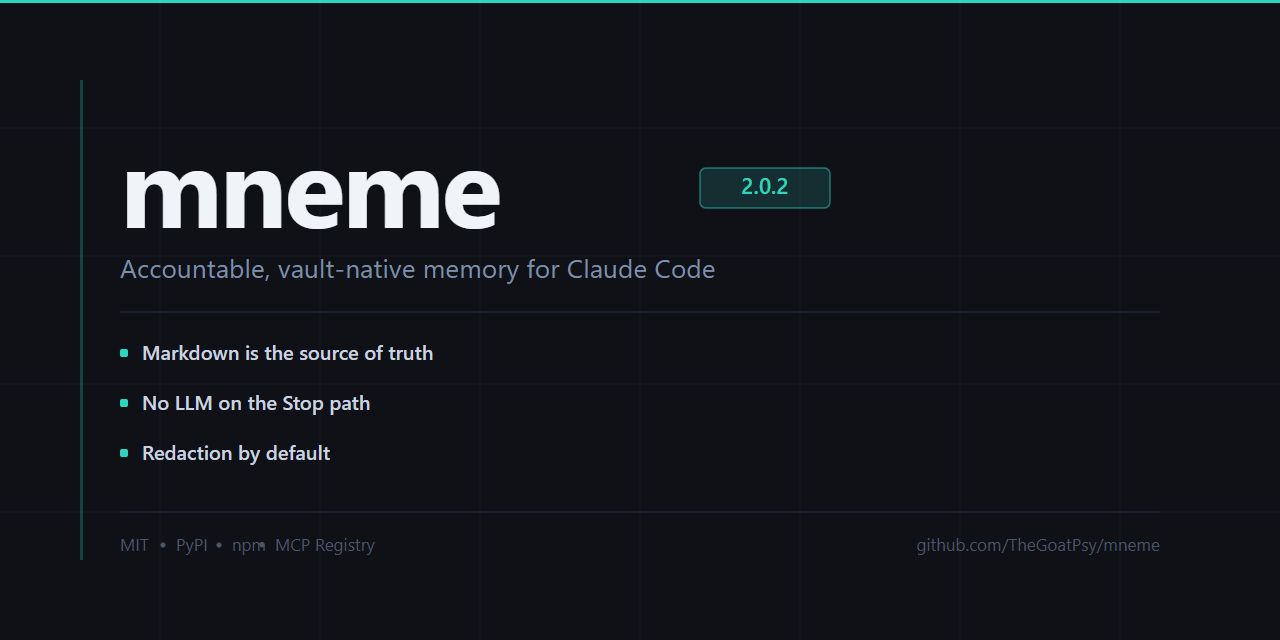
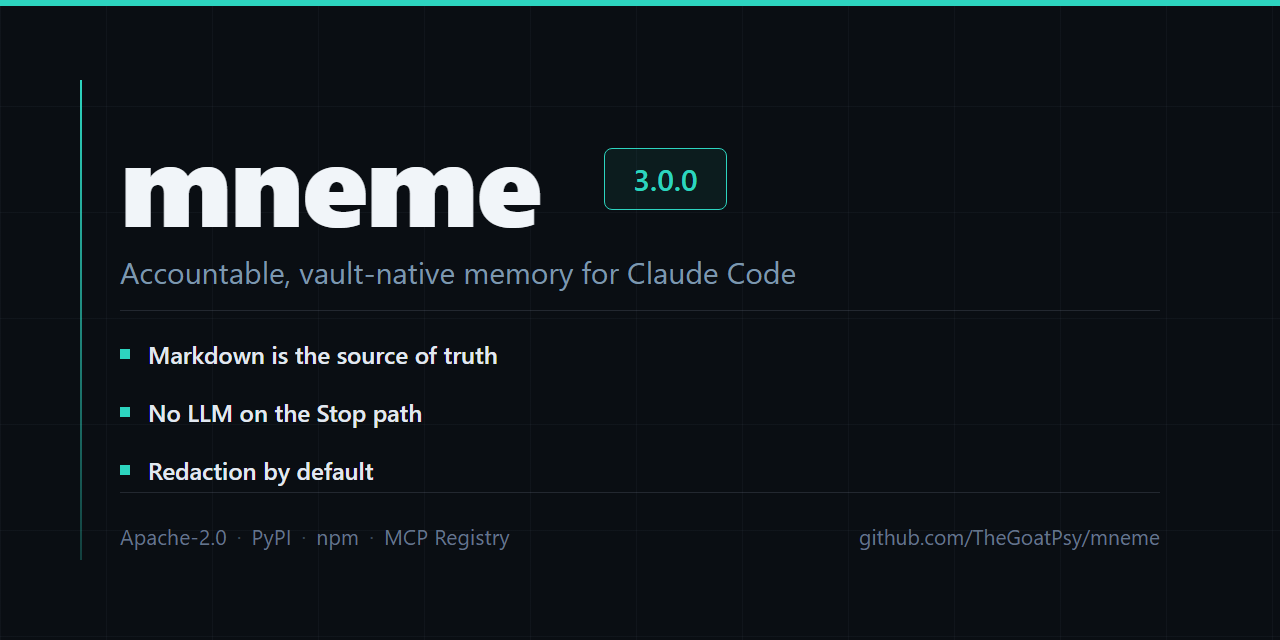
site: 3.0.0 refresh
Apache-2.0 relicense reflected everywhere (meta, JSON-LD, hero,
matrix, footer), version chips to 3.0.0, capability matrix rows
updated to the shipped 3.0 facts mirroring README wording, console
card covers the new loopback web explorer, temporal card reflects the
built-in claim lifecycle, new Team Vault Sync and Policy-Graduated
Autonomy module cards, regenerated og social card (3.0.0, Apache-2.0).

diff --git a/index.html b/index.html
@@ -6,7 +6,7 @@
 
 <meta name="viewport" content="width=device-width, initial-scale=1.0">
 <title>mneme — Accountable, vault-native memory for Claude Code and any MCP client</title>
-<meta name="description" content="mneme is an open-source, MIT-licensed memory layer for Claude Code and any MCP client. Your Markdown vault stays the source of truth. Every derived store is rebuildable. Redaction before every write.">
+<meta name="description" content="mneme is an open-source, Apache-2.0-licensed memory layer for Claude Code and any MCP client. Your Markdown vault stays the source of truth. Every derived store is rebuildable. Redaction before every write.">
 <meta property="og:title" content="mneme — Accountable, vault-native memory for Claude Code">
 <meta property="og:description" content="Open-source, local-first memory layer. Markdown vault as source of truth. Deterministic capture, no LLM on the critical path. On the official MCP Registry.">
 <meta property="og:type" content="website">
@@ -1512,7 +1512,7 @@ footer {
   "name": "mneme",
   "applicationCategory": "DeveloperApplication",
   "operatingSystem": "Any",
-  "license": "https://opensource.org/licenses/MIT",
+  "license": "https://www.apache.org/licenses/LICENSE-2.0",
   "url": "https://thegoatpsy.github.io/mneme/",
   "codeRepository": "https://github.com/TheGoatPsy/mneme",
   "downloadUrl": [
@@ -1520,8 +1520,8 @@ footer {
     "https://pypi.org/project/mneme-cc-plugin/",
     "https://www.npmjs.com/package/mneme-mcp-server"
   ],
-  "softwareVersion": "2.0.2",
-  "description": "Accountable, vault-native memory for Claude Code and any MCP client. Local-first, MIT licensed, on the official MCP Registry."
+  "softwareVersion": "3.0.0",
+  "description": "Accountable, vault-native memory for Claude Code and any MCP client. Local-first, Apache-2.0 licensed, on the official MCP Registry."
 }
 </script>
 </head>
@@ -1539,7 +1539,7 @@ footer {
         <path d="M6 8h10M6 11h7M6 14h9" stroke="#2dd4bf" stroke-width="1.5" stroke-linecap="round"/>
       </svg>
       mneme
-      <span class="logo-ver">v2.0.2</span>
+      <span class="logo-ver">v3.0.0</span>
     </a>
 
     <ul class="nav-links" role="list">
@@ -1579,7 +1579,7 @@ footer {
   <div class="container">
     <div class="hero-badge">
       <span class="dot"></span>
-      Open source · MIT · v2.0.2 · On the official MCP Registry
+      Open source · Apache-2.0 · v3.0.0 · On the official MCP Registry
     </div>
 
     <h1 class="hero-h1">
@@ -1604,9 +1604,9 @@ footer {
       </a>
     </div>
 
-    <p class="hero-note">Open source, MIT. Any MCP client.</p>
+    <p class="hero-note">Open source, Apache-2.0. Any MCP client.</p>
     <div class="hero-meta-pills" aria-label="Distribution channels">
-      <span class="hero-pill">MIT</span>
+      <span class="hero-pill">Apache-2.0</span>
       <span class="hero-pill">PyPI</span>
       <span class="hero-pill">npm</span>
       <span class="hero-pill">MCP Registry</span>
@@ -2170,7 +2170,7 @@ footer {
           </tr>
           <tr>
             <td>License</td>
-            <td class="col-mneme">MIT</td>
+            <td class="col-mneme">Apache-2.0</td>
             <td class="col-other">Apache-2.0</td>
             <td class="col-other">Apache-2.0</td>
             <td class="col-other">Apache-2.0</td>
@@ -2178,8 +2178,8 @@ footer {
             <td class="col-other">open source</td>
           </tr>
           <tr>
-            <td>Cloud-hosted team memory with a web graph UI today</td>
-            <td class="col-mneme">&#8212;</td>
+            <td>Team memory with a web graph UI (mneme: self-hosted git sync + local console)</td>
+            <td class="col-mneme">&#10003;</td>
             <td class="col-other">&#8212;</td>
             <td class="col-other">~</td>
             <td class="col-other">&#8212;</td>
@@ -2187,26 +2187,26 @@ footer {
             <td class="col-other">&#10003;</td>
           </tr>
           <tr>
-            <td>Agent autonomously rewrites its own memory</td>
+            <td>Agent autonomously rewrites its own memory (mneme: policy-graduated, rollback, audit chain)</td>
+            <td class="col-mneme">&#10003;</td>
+            <td class="col-other">&#8212;</td>
+            <td class="col-other">~</td>
+            <td class="col-other">&#10003;</td>
+            <td class="col-other">&#8212;</td>
+            <td class="col-other">&#8212;</td>
+          </tr>
+          <tr>
+            <td>Auto-summarization at session end, on by default (mneme: deterministic zero-LLM)</td>
+            <td class="col-mneme">&#10003;</td>
+            <td class="col-other">&#10003;</td>
+            <td class="col-other">&#8212;</td>
+            <td class="col-other">&#8212;</td>
+            <td class="col-other">~</td>
+            <td class="col-other">~</td>
+          </tr>
+          <tr>
+            <td>Localized observation-prompt presets (mneme: en + tr)</td>
             <td class="col-mneme">~</td>
-            <td class="col-other">&#8212;</td>
-            <td class="col-other">~</td>
-            <td class="col-other">&#10003;</td>
-            <td class="col-other">&#8212;</td>
-            <td class="col-other">&#8212;</td>
-          </tr>
-          <tr>
-            <td>Auto-summarization at session end, on by default</td>
-            <td class="col-mneme">~</td>
-            <td class="col-other">&#10003;</td>
-            <td class="col-other">&#8212;</td>
-            <td class="col-other">&#8212;</td>
-            <td class="col-other">~</td>
-            <td class="col-other">~</td>
-          </tr>
-          <tr>
-            <td>Localized observation-prompt presets</td>
-            <td class="col-mneme">&#8212;</td>
             <td class="col-other">&#10003;</td>
             <td class="col-other">&#8212;</td>
             <td class="col-other">&#8212;</td>
@@ -2338,8 +2338,8 @@ footer {
             <circle cx="7.5" cy="6" r="0.8" fill="rgba(45,212,191,0.5)"/>
           </svg>
         </div>
-        <h3>Offline Audit Console</h3>
-        <p>Read-only HTML audit console. Inspect your vault index, redaction log, and retrieval results entirely offline — no server, no external calls.</p>
+        <h3>Audit Console &amp; Web Explorer</h3>
+        <p>Read-only audit surface in two forms: a static offline HTML report, and a loopback-only web explorer (<code>mneme-console --serve</code>) with graph, claims, changes, and audit-chain views. GET-only, refuses non-loopback binds.</p>
         <div class="module-tags">
           <span class="module-tag-tech">HTML</span>
           <span class="module-tag">opt-in</span>
@@ -2370,7 +2370,7 @@ footer {
           </svg>
         </div>
         <h3>Temporal Extraction</h3>
-        <p>Extracts temporal claims from vault notes and exports them to Graphiti-compatible format for timeline reasoning and knowledge-graph queries.</p>
+        <p>The deterministic claim lifecycle — valid-from/to, supersedes, as-of queries, and <code>memory blame</code> provenance — is built in on every profile. This module adds optional LLM claim extraction and Graphiti export for knowledge-graph timelines.</p>
         <div class="module-tags">
           <span class="module-tag-tech">Graphiti</span>
           <span class="module-tag">opt-in</span>
@@ -2392,6 +2392,39 @@ footer {
         <div class="module-tags">
           <span class="module-tag-tech">Obsidian</span>
           <span class="module-tag-tech">GitHub</span>
+          <span class="module-tag">opt-in</span>
+        </div>
+      </div>
+
+      <div class="module-card">
+        <div class="module-icon" aria-hidden="true">
+          <svg width="18" height="18" viewBox="0 0 18 18" fill="none" role="img" aria-label="Team sync icon">
+            <circle cx="5" cy="5" r="2.2" stroke="#2dd4bf" stroke-width="1.2"/>
+            <circle cx="13" cy="5" r="2.2" stroke="#2dd4bf" stroke-width="1.2"/>
+            <path d="M2.5 14.5c0-2 1.2-3.5 2.5-3.5s2.5 1.5 2.5 3.5M10.5 14.5c0-2 1.2-3.5 2.5-3.5s2.5 1.5 2.5 3.5" stroke="rgba(45,212,191,0.6)" stroke-width="1.1" stroke-linecap="round"/>
+          </svg>
+        </div>
+        <h3>Team Vault Sync</h3>
+        <p>Share memory over any plain git remote — no vendor cloud. Every file is redacted before it leaves the machine and a post-copy leak rescan aborts the push fail-closed. Optional age end-to-end encryption. Pulls never overwrite local notes.</p>
+        <div class="module-tags">
+          <span class="module-tag-tech">git remote</span>
+          <span class="module-tag-tech">age E2E</span>
+          <span class="module-tag">opt-in</span>
+        </div>
+      </div>
+
+      <div class="module-card">
+        <div class="module-icon" aria-hidden="true">
+          <svg width="18" height="18" viewBox="0 0 18 18" fill="none" role="img" aria-label="Policy autonomy icon">
+            <path d="M9 2L3.5 4.5v4c0 3.2 2.3 6 5.5 7 3.2-1 5.5-3.8 5.5-7v-4L9 2z" stroke="#2dd4bf" stroke-width="1.2" stroke-linejoin="round"/>
+            <path d="M6.5 9l1.8 1.8L11.8 7" stroke="#2dd4bf" stroke-width="1.2" stroke-linecap="round" stroke-linejoin="round"/>
+          </svg>
+        </div>
+        <h3>Policy-Graduated Autonomy</h3>
+        <p>A declarative policy file allows low-risk edit classes (dedup, typo, tags) to apply autonomously. Every change is journalled for one-command rollback and chained into a tamper-evident HMAC audit log. Durable categories always keep a human in the loop.</p>
+        <div class="module-tags">
+          <span class="module-tag-tech">policy.json</span>
+          <span class="module-tag-tech">rollback</span>
           <span class="module-tag">opt-in</span>
         </div>
       </div>
@@ -2538,7 +2571,7 @@ footer {
           </svg>
         </button>
         <div class="faq-body" id="faq-body-4" hidden>
-          <p>mneme is MIT-licensed and published on <a href="https://pypi.org/project/mneme-core/" target="_blank" rel="noopener">PyPI</a> and <a href="https://www.npmjs.com/package/mneme-mcp-server" target="_blank" rel="noopener">npm</a> with a reproducible benchmark harness you can run locally. For an honest account of maturity, fit, and known limitations, see the <a href="https://github.com/TheGoatPsy/mneme/blob/main/docs/COMPETITIVE.md" target="_blank" rel="noopener">capability matrix</a>.</p>
+          <p>mneme is Apache-2.0-licensed and published on <a href="https://pypi.org/project/mneme-core/" target="_blank" rel="noopener">PyPI</a> and <a href="https://www.npmjs.com/package/mneme-mcp-server" target="_blank" rel="noopener">npm</a> with a reproducible benchmark harness you can run locally. For an honest account of maturity, fit, and known limitations, see the <a href="https://github.com/TheGoatPsy/mneme/blob/main/docs/COMPETITIVE.md" target="_blank" rel="noopener">capability matrix</a>.</p>
         </div>
       </div>
 
@@ -2554,7 +2587,7 @@ footer {
     <div class="footer-inner">
       <div class="footer-brand">
         <div class="fb-name">mneme</div>
-        <p>Accountable, vault-native memory for Claude Code and any MCP client. Open source, MIT licensed.</p>
+        <p>Accountable, vault-native memory for Claude Code and any MCP client. Open source, Apache-2.0 licensed.</p>
       </div>
 
       <div class="footer-links">
@@ -2581,8 +2614,8 @@ footer {
     </div>
 
     <div class="footer-bottom">
-      <p>Built by Onour Impram. MIT License.</p>
-      <span class="license">MIT</span>
+      <p>Built by Onour Impram. Apache-2.0 License.</p>
+      <span class="license">Apache-2.0</span>
     </div>
   </div>
 </footer>
